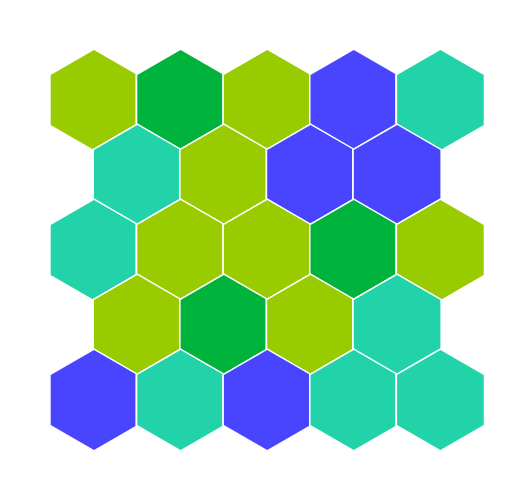
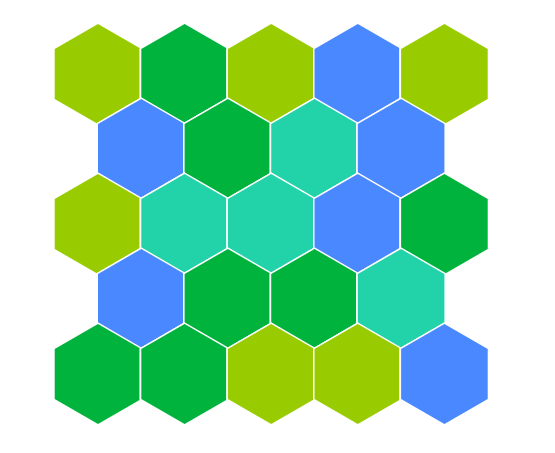
update style

diff --git a/src/charts/shape/boxplot/boxplot.tsx b/src/charts/shape/boxplot/boxplot.tsx
@@ -121,8 +121,8 @@ class BoxPlotComponent extends React.Component {
         this.ctx.beginPath();
         let _x = sx + w * i + w / 2;
         let _y = this.config.START_Y - y;
-        this.ctx.moveTo(_x - this.config.PADDING, _y );
-        this.ctx.lineTo(_x + this.config.PADDING, _y);
+        this.ctx.moveTo(_x - this.config.PADDING * 2, _y );
+        this.ctx.lineTo(_x + this.config.PADDING * 2, _y);
         this.ctx.stroke();  
     }
 
@@ -145,9 +145,9 @@ class BoxPlotComponent extends React.Component {
         this.ctx.beginPath();
         let _x = sx + w * i + w / 2;
         let _y = this.config.START_Y - Q1Y;
-        let _w = this.config.PADDING * 2;
+        let _w = this.config.PADDING * 4;
         let _h = Q1Y - Q3Y;
-        this.ctx.strokeRect(_x - this.config.PADDING, _y, _w, _h);
+        this.ctx.strokeRect(_x - this.config.PADDING * 2, _y, _w, _h);
         this.ctx.stroke();  
     }
 
@@ -160,12 +160,12 @@ class BoxPlotComponent extends React.Component {
         this.ctx.beginPath();
         let _x = sx + w * i + w / 2;
         let _y = this.config.START_Y - sy;
-        let _w = this.config.PADDING * 2;
+        let _w = this.config.PADDING * 4;
         let _h = sy - ey;
         this.ctx.fillStyle = '#ffffff';
-        this.ctx.fillRect(_x - this.config.PADDING + _width , _y + _width, _w - 2 * _width, _h - 2 * _width);
+        this.ctx.fillRect(_x - this.config.PADDING * 2 + _width , _y + _width, _w - 2 * _width, _h - 2 * _width);
         this.ctx.fillStyle = state === 'upper' ? "#FFC28D": '#9ECCB8';
-        this.ctx.fillRect(_x - this.config.PADDING + _innderWidth , _y + _innderWidth, _w - 2 * _innderWidth, _h - 2 * _innderWidth);
+        this.ctx.fillRect(_x - this.config.PADDING * 2 + _innderWidth , _y + _innderWidth, _w - 2 * _innderWidth, _h - 2 * _innderWidth);
         this.ctx.fill();
         this.ctx.stroke();  
     }

diff --git a/src/charts/provider/getColorByRandom.tsx b/src/charts/provider/getColorByRandom.tsx
@@ -2,7 +2,7 @@ let cols = [
     '#22D3AA',
     '#00b33c',
     '#99cc00',
-    '#4944FE'
+    '#4988FE'
 ]
 
 let getColByRandom = function() {
